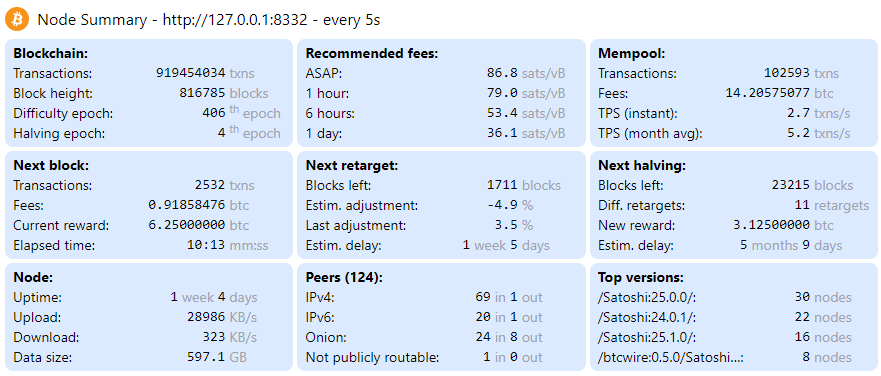
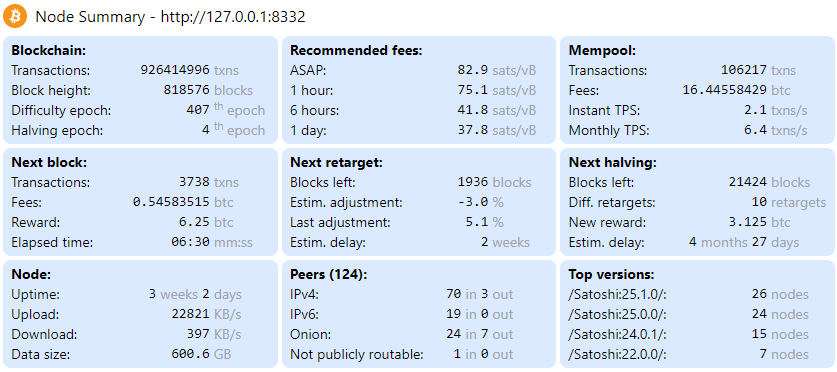
Compute title modify flag for sub-version strings
Additionally:
- Changed [<value>, <unit>, <modified flag>] array to
more expressive {v: <value>, u: <unit>, m: <modified flag>} object
- A modified higher unit value doesn't impact modification flags
of lower unit values
- Used httpEquiv instead of http-equiv to suppress a waning

diff --git a/app/cards.js b/app/cards.js
@@ -19,6 +19,7 @@ function s(val) {
 }
 
 // Format days. Use the 2 possible higher units of: years, months/weeks, days, hours, minutes
+// TODO: doesn't work below 1 hour
 const durations = [
   { unit: "year", days: 365.25 },
   { unit: "month", days: 365.25/12 },
@@ -151,37 +152,66 @@ function cbEpoch(epoch) {
 // - summary variable (json data)
 // - array of properties to traverse to get the data
 // - optional additional argument for callback
-// It returns an array of [value, unit, modified] triplets.
-function format(cb, summary, properties, optional_arg) {
+// It returns an array of {v: <value>, u: <unit>, m: <modified flag>} objects.
+function raw_format(cb, summary, properties, optional_arg) {
   // Compute current array of [value, unit] pairs
   const val = properties.reduce((acc, property) => acc[property], summary)
   // Handles undefined instant TPS at startup
   if (val == undefined) {
-    return [[undefined, undefined, false]]
+    return [{v: undefined, u: undefined, m: false}]
   }
   const val_unit_pairs = cb(val, optional_arg)
   // Values are considered modified if there are no previous data
   if (! summary.last_res) {
-    return val_unit_pairs.map((vu) => vu.concat(true))
+    return val_unit_pairs.map((vu) => ({v: vu[0], u: vu[1], m: true}))
   }
   // Compute previous array of [value, unit] pairs
   const last_val = properties.reduce((acc, property) => acc[property], summary.last_res)
   // Values are considered modified if previous value is undefined
   if (last_val == undefined) {
-    return val_unit_pairs.map((vu) => vu.concat(true))
+    return val_unit_pairs.map((vu) => ({v: vu[0], u: vu[1], m: true}))
   }
   const last_val_unit_pairs = cb(last_val, optional_arg)
   // Values are considered modified if array length changes
   let modified = val_unit_pairs.length != last_val_unit_pairs.length
   return val_unit_pairs.map((vu, i) => {
-    // Current value (and subsequent ones) is considered modified if it changes or its unit changes
-    // Note that toString() is needed to managed units in jsx format
-    modified = modified || vu[0] != last_val_unit_pairs[i][0] || vu[1].toString() != last_val_unit_pairs[i][1].toString()
-    return vu.concat(modified)
+    // Current value is considered modified if it changes or its unit changes
+    // Note that toString() is needed to managed units in jsx format and also we need to manage possible undefined value
+    const myToString = v => v == undefined ? "" : v.toString()
+    const m = modified || vu[0] != last_val_unit_pairs[i][0] || myToString(vu[1]) != myToString(last_val_unit_pairs[i][1])
+    return {v: vu[0], u: vu[1], m}
   })
 }
 
+// Intermediate functions to insert a global modified flag indicating if the title itself is modified
+// (false by default, but needed for sub-versions when their ordering changes)
+function format_items(items, modified_flag) {
+  return {m: modified_flag, items}
+}
+function format(cb, summary, properties, optional_arg) {
+  const items = raw_format(cb, summary, properties, optional_arg)
+  return format_items(items, false)
+}
+
+// Computes 4 top sub-version strings
+function topVersions(summary) {
+  const ret = summary.sub_versions.filter(sv => !sv[0].startsWith("/electrs")).slice(0, 4).map((sv, index) => {
+    let o = {}
+    let agent = sv[0]
+    const maxLen = 23
+    if (agent.length > maxLen)
+      agent = agent.slice(0, maxLen-1) + "…"
+    let items = cbNodes(sv[1])
+    items = [{v: items[0][0], u: items[0][1], m: false}]
+    o[agent] = items
+    return o
+  })
+  return ret
+}
+
 export default async function Cards({summary}) {
+  // Pre-compute 4 top previous versions
+  const prev_sv_items = !summary.last_res ? undefined : topVersions(summary.last_res)
   return (
     <div className="text-sm grid grid-cols-1 sm:grid-cols-2 md:grid-cols-3 xl:grid-cols-4 2xl:grid-cols-5 gap-1">
       <Card title={"Blockchain"} items={[
@@ -237,15 +267,15 @@ export default async function Cards({summary}) {
         {"Not publicly routable": format(cbPeers, summary, ["peers", "not_publicly_routable"])},
       ]}/>
       <Card title={"Top versions"} items={
-        summary.sub_versions.filter(sv => !sv[0].startsWith("/electrs")).slice(0, 4).map(sv => {
+        topVersions(summary).map((sv, index) => {
           let o = {}
-          let agent = sv[0]
-          const maxLen = 23
-          if (agent.length > maxLen)
-            agent = agent.slice(0, maxLen-1) + "…"
-          // TODO: take into account version ordering change to compute a modified flag on item titles
-          o[agent] = cbNodes(sv[1])
-          o[agent][0].push(false)
+          let items = Object.values(sv)[0]
+          // Compare with previous value at same index
+          items[0].m = !prev_sv_items ? true : Object.values(prev_sv_items[index])[0][0].v != items[0].v
+          // Take into account version ordering change to compute modified flag on item titles
+          let agent = Object.keys(sv)[0]
+          const modified_title = !prev_sv_items ? true : agent != Object.keys(prev_sv_items[index])[0]
+          o[agent] = format_items(items, modified_title)
           return o
         })}/>
     </div>

diff --git a/app/card.js b/app/card.js
@@ -8,14 +8,19 @@ export default async function Card({title, items}) {
       </div>
       <div className="flex justify-between">
         <div>
-          {items.map((item, index) => (
-            <div key={index} className="">
-              {
-                // Label is the key followed by : character
-                Object.keys(item)[0]
-              }:
-            </div>
-          ))}
+          {items.map((item, index) =>
+            {
+              const emphasize = Object.values(item)[0].m
+              return (
+                <div key={index} className={`${emphasize ? " animate-update" : ""}`}>
+                  {
+                    // Label is the key followed by : character
+                    Object.keys(item)[0]
+                  }:
+                </div>
+              )
+            }
+          )}
         </div>
         <div className="flex justify-end gap-1">
           <div>
@@ -23,10 +28,10 @@ export default async function Card({title, items}) {
               // Emit single value or first value + first unit + second value (the last unit is emitted in a separate column)
               items.map((item, index) => {
                 // Get last value with its modified flag
-                const values = Object.values(item)[0]
+                const values = Object.values(item)[0].items
                 const valUnit2 = values.slice(-1)[0]
-                const val2 = valUnit2[0] ?? emptyCell
-                const emphasize2 = valUnit2[2]
+                const val2 = valUnit2.v ?? emptyCell
+                const emphasize2 = valUnit2.m
                 // Emit single value
                 if (values.length == 1) {
                   return (
@@ -37,9 +42,9 @@ export default async function Card({title, items}) {
                 }
                 // Get first value with its unit and modified flag
                 const valUnit1 = values[0]
-                const val1 = valUnit1[0] ?? emptyCell
-                const unit1 = valUnit1[1]
-                const emphasize1 = valUnit1[2]
+                const val1 = valUnit1.v ?? emptyCell
+                const unit1 = valUnit1.u
+                const emphasize1 = valUnit1.m
                 // Emit first value + first unit + second value
                 return (
                   <div key="{index}" className='flex justify-end gap-1'>
@@ -61,10 +66,10 @@ export default async function Card({title, items}) {
             {
               // Unit of last element is special because it is aligned on a column
               items.map((item, index) => {
-                const values = Object.values(item)[0]
+                const values = Object.values(item)[0].items
                 const valUnit2 = values.slice(-1)[0]
                 // Unit is a string, a jsx data (with superscript for epoch) or undefined (changed to empty cell)
-                const unit2 = valUnit2[1] ?? emptyCell
+                const unit2 = valUnit2.u ?? emptyCell
                 return (
                   <div key={index} className="w-14 text-gray-400">
                     {unit2}

diff --git a/app/layout.js b/app/layout.js
@@ -14,7 +14,7 @@ export default async function RootLayout({ children }) {
   return (
     <html lang="en">
       <head>
-        <meta http-equiv="refresh" content={`${process.env.REVALIDATE}`} />
+        <meta httpEquiv="refresh" content={`${process.env.REVALIDATE}`} />
       </head>
       <body>
         <Header/>
